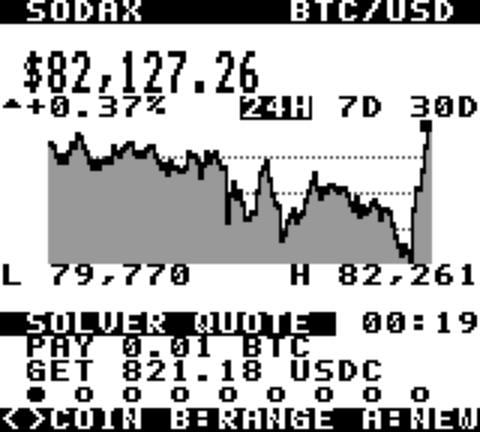
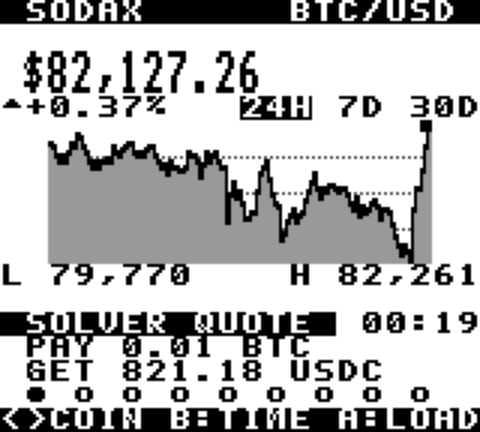
README: SODAX on the Game Boy section; docs for bridge mode
Claude-Session: https://claude.ai/code/session_01MZ3uQJCcn6FcjzVDhZnLJN

Changed region(s): [[0.4375, 0.9329, 1.0, 1.0]]

diff --git a/README.md b/README.md
@@ -6,7 +6,8 @@
 
 <p align="center">
   <strong>Connect a Game Boy's link port to your computer over USB.</strong><br>
-  Print from a real Game Boy straight to PNG, with a Raspberry Pi Pico 2 W and one cut link cable.
+  Print from a real Game Boy straight to PNG, or watch live crypto prices from SODAX on it,<br>
+  with a Raspberry Pi Pico 2 W and one cut link cable.
 </p>
 
 <p align="center">
@@ -15,12 +16,14 @@
   <img alt="Pico SDK 2.3.1" src="https://img.shields.io/badge/Pico%20SDK-2.3.1-5d6a62">
   <img alt="Printer emulator: working" src="https://img.shields.io/badge/printer%20emulator-working-3a8a5c">
   <img alt="Tested on DMG" src="https://img.shields.io/badge/tested%20on-DMG-8e1b4e">
+  <img alt="SODAX live data: working" src="https://img.shields.io/badge/SODAX%20live%20data-working-a55c55">
   <a href="LICENSE"><img alt="License: MIT" src="https://img.shields.io/badge/license-MIT-blue"></a>
 </p>
 
 <p align="center">
   <a href="#quick-start">Quick start</a> ·
   <a href="#printing">Printing</a> ·
+  <a href="#sodax-on-the-game-boy">SODAX</a> ·
   <a href="#troubleshooting">Troubleshooting</a> ·
   <a href="#how-it-works">How it works</a> ·
   <a href="#roadmap">Roadmap</a>
@@ -31,6 +34,7 @@
 ## Highlights
 
 - **A Game Boy Printer that saves PNGs.** The Pico answers exactly like Nintendo's printer, so games print as usual, and every picture lands on your computer.
+- **Live SODAX market data on the Game Boy.** Prices, charts and real swap quotes from the [SODAX](https://sodax.com) API, drawn by our own Game Boy ROM.
 - **No level shifter, no soldering.** The Pico 2's RP2350 pins tolerate the Game Boy's 5 V signals, so four wires on a breadboard are enough.
 - **Double-click to use.** On a Mac, one launcher saves every print to `Pictures/GameBoy Prints`, with a sound. Any computer with Chrome or Edge can use the web page instead.
 - **Tested and documented.** The printer logic and the decoder have automated tests, and every hardware step, measurement and bug is written down in the [logbook](docs/LOGBOOK.md).
@@ -106,6 +110,29 @@ Open <http://localhost:8000> in Chrome or Edge, click **Connect Pico**, and prin
   <img src="docs/img/web-app.png" alt="The web page after decoding a print: buttons for Connect Pico, Save capture, Decode, Open file, Demo print, and the decoded 160 by 144 image" width="720">
 </p>
 
+## SODAX on the Game Boy
+
+<p align="center">
+  <img src="docs/img/sodax-splash.png" width="32%" alt="Splash screen with the SODAX logo">
+  <img src="docs/img/sodax-btc.png" width="32%" alt="BTC 24H: price, chart, low/high and a live solver quote">
+  <img src="docs/img/sodax-eth.png" width="32%" alt="ETH 30D: price, chart, low/high and a live solver quote">
+</p>
+<p align="center"><sub>Emulator screenshots with live data. Tested on a real DMG.</sub></p>
+
+Live prices, a 24H / 7D / 30D chart and a **real swap quote from the SODAX solver** for 9 coins (BTC, ETH, SOL, SODA, SUI, HYPE, AVAX, XLM, POL), on an original Game Boy.
+
+1. Put `sodax.gb` (from [Releases](../../releases)) on a flash cart such as an EverDrive.
+2. With the Pico on USB, double-click **`SODAX Bridge.command`** (or run `node tools/sodax-bridge.mjs`). Close the print tool first: one program uses the Pico at a time.
+3. Switch the Game Boy on and start `sodax.gb`.
+
+| Button | Action |
+|---|---|
+| ◄ ► (or ▲ ▼) | previous / next coin |
+| B | time range: 24H, 7D, 30D |
+| A or Start | load fresh data now (it also refreshes every 30 s) |
+
+Prices come from the SODAX oracle (`/oracle/candles`), quotes from the SODAX solver (`/intent/quote`), no API key needed. How the Game Boy, the Pico's bridge mode and the PC talk: [`docs/SODAX.md`](docs/SODAX.md).
+
 ## Troubleshooting
 
 | Problem | What to check |
@@ -113,6 +140,7 @@ Open <http://localhost:8000> in Chrome or Edge, click **Connect Pico**, and prin
 | The game reports a printer error | Wiring: beep each plug pin to its Pico pin. If your colours were mapped wrong, swap the two data wires (plug pins 2 and 3). Power order: Pico first. |
 | Stuck on `Waiting for the Pico...` | Is the printer firmware on the Pico? It should appear as **Pico** by Raspberry Pi. Try another USB cable, some are charge-only. |
 | A print did not save | See `gbprint.log` in the prints folder. Raw data of every session is kept in `raw/`; `node tools/render.mjs <file>` turns it into PNGs. |
+| SODAX screen stays on "waiting" | Is the bridge window open and saying "bridge mode on"? Is the Pico on firmware v0.2.0 or newer? Press A to request a screen. |
 | The web page cannot connect | Use Chrome or Edge on a desktop (Safari and Firefox have no Web Serial). Close the Mac tool first: only one program can use the Pico at a time. |
 
 ## How it works
@@ -141,10 +169,12 @@ firmware/         Pico 2 W firmware (C, Pico SDK): PIO link, printer emulator, U
   test/           host tests for the printer state machine
   firstlight/     patch used to run stacksmashing's firmware for the first wiring test
 web/              decoder library + web page (Web Serial)
-tools/            gbprint.mjs (Mac print tool), render.mjs, printcap.py, linktest.py
-rom/              Game Boy test ROMs: linktest.gb, printtest.gb (RGBDS)
+tools/            gbprint.mjs (Mac print tool), sodax-bridge.mjs + sodax.mjs (SODAX data),
+                  render.mjs, printcap.py, linktest.py
+rom/              Game Boy ROMs (RGBDS): sodax.gb, linktest.gb, printtest.gb; mkfont.py makes the font
 docs/             PROTOCOL.md, PLAN.md, LOGBOOK.md, breadboard drawing, images
-GB Printer.command   double-click launcher for the Mac print tool
+GB Printer.command    double-click launcher for the Mac print tool
+SODAX Bridge.command  double-click launcher for SODAX on the Game Boy
 ```
 
 ## Development
@@ -157,8 +187,9 @@ cmake -S firmware -B firmware/build -G Ninja && ninja -C firmware/build   # → 
 make -C firmware/test        # printer state machine (host, with sanitizers)
 cd web && npm test           # decoder
 
-# Game Boy test ROMs (RGBDS)
+# Game Boy ROMs (RGBDS)
 make -C rom
+node tools/sodax-bridge.mjs --dry   # print live SODAX screens without hardware
 ```
 
 `rom/printtest.gb` makes the Game Boy act like a printing game and shows on screen what the printer answers (`… 81 00` is correct). `rom/linktest.gb` echoes bytes for testing the link in the other direction. Details: [`firmware/README.md`](firmware/README.md).
@@ -168,7 +199,7 @@ make -C rom
 - [x] Wiring and first link test: 1,000 bytes both ways, 0 errors
 - [x] Game Boy Printer emulator: prints from a DMG saved as PNG
 - [ ] More printer games tested (compressed and multi-part prints)
-- [ ] General PC link: send live data to a Game Boy ROM
+- [x] General PC link: live SODAX market data on the Game Boy (bridge mode)
 - [ ] Online link play between two Game Boys
 - [ ] Own small PCB with USB-C and a case, so nobody has to cut a cable
 
@@ -177,6 +208,7 @@ make -C rom
 - [Pan Docs](https://gbdev.io/pandocs/): link port and printer documentation.
 - [mofosyne/arduino-gameboy-printer-emulator](https://github.com/mofosyne/arduino-gameboy-printer-emulator): the reference printer emulator. Our printer status behaviour follows it; the code is our own.
 - [stacksmashing/gb-link-firmware](https://github.com/stacksmashing/gb-link-firmware): Pico link firmware, used with a small patch for the first wiring test.
+- [SODAX](https://sodax.com): market data API and the official logo used on the splash screen (from [icon-project/sodax-sdks](https://github.com/icon-project/sodax-sdks), MIT).
 - [HerrZatacke/gb-printer-web](https://github.com/HerrZatacke/gb-printer-web) and [Raphael-Boichot/The-TinyGB-Printer](https://github.com/Raphael-Boichot/The-TinyGB-Printer): prior art for printer images.
 
 Sister project: [WiFi Game Boy Cartridge](https://github.com/hazy2go/wifi-game-boy-cartridge).

diff --git a/CLAUDE.md b/CLAUDE.md
@@ -11,6 +11,7 @@ Read this first, then `docs/PLAN.md` (stages, parts, inventory), `docs/PROTOCOL.
 - Never cut or modify the **MGB-004 adapter** or the spare DMG-04 (printer setup).
 
 ## Where things stand (2026-10-16)
+- **SODAX on Game Boy works on hardware** (2026-10-16): firmware bridge mode + `rom/sodax.gb` + `tools/sodax-bridge.mjs` (docs/SODAX.md). Release v0.2.0.
 - **Public repo, MIT license** (firmware/firstlight/ GPL-3.0). Release **v0.1.0** has the printer firmware .uf2. README has user-facing setup; keep it in sync when behaviour changes.
 - **Printer emulator works:** `firmware/` (our code) prints from the Game Boy to a PNG (first print 2026-10-15, LOGBOOK). Capture: `python3 tools/printcap.py`, render: `node tools/render.mjs`, or the web page (Web Serial). Test ROMs in `rom/` (linktest, printtest).
 - **First light done:** Mac <-> Pico 2 W <-> DMG works both ways (1000 bytes, 0 errors). Direct wiring, no shifter (RP2350 GPIOs are 5 V tolerant while powered; Pico on USB before the GB). Wiring: green GP0, red GP1, orange GP2, blue GND. First-light firmware = stacksmashing + patch in `firmware/firstlight/`.

diff --git a/firmware/README.md b/firmware/README.md
@@ -2,7 +2,11 @@
 
 Our own firmware (Pico SDK 2.3.1, C). The first-light build of stacksmashing's firmware lives in `firstlight/` and is not part of this.
 
-## What it does
+## Modes
+- **Printer** (default): emulates the Game Boy Printer, described below.
+- **Bridge**: the PC sends `ESC GBBRIDGE`; from then on the PC's bytes are the Game Boy's poll replies and the Game Boy's bytes go to the PC. Ends when the PC closes the port. Used by SODAX on the Game Boy (docs/SODAX.md).
+
+## What it does (printer mode)
 - The Game Boy is the clock master (printer mode). PIO program `src/gb_link.pio` is a clock **slave**: our bit goes out when SCK falls, the GB's bit is sampled when SCK rises, MSB first.
 - `src/printer.c` answers like a Game Boy Printer: 0x00 to every byte, then `0x81` and the status byte in the two dummy bytes. Status sequence after PRINT: full, busy+full for 20 polls, full, idle (same behaviour as mofosyne's game-tested emulator; our code).
 - Every byte from the Game Boy is streamed raw to the PC over USB serial (CDC). The PC decodes packets into images (`web/`, `tools/`).

diff --git a/docs/LOGBOOK.md b/docs/LOGBOOK.md
@@ -174,3 +174,7 @@ Checked by Hazy with a multimeter, plug half we use, pins numbered looking into 
 - Debug build with link counters on row 1, freshly copied to the EverDrive: screens render, buttons switch coin/range/refresh (Hazy: "all works"). Root cause of the earlier failure not confirmed; most likely the EverDrive had a ROM from before the length-check fix.
 - SODAX API: one HTTP 520 and some timeouts seen; bridge now retries with timeouts and reuses the last good data.
 - Footer "A:NEW" renamed "A:LOAD" (Hazy didn't know what NEW meant). Debug row only in -D DEBUG builds.
+
+## 2026-10-16 v0.2.0 release
+- README: SODAX section with screenshots (re-rendered with the A:LOAD footer), troubleshooting row, layout, roadmap (general PC link done).
+- Release v0.2.0: gb_link_usb.uf2 (printer + bridge mode), sodax.gb, printtest.gb, linktest.gb, SHA256SUMS. Clean builds; host tests and decoder tests pass.
